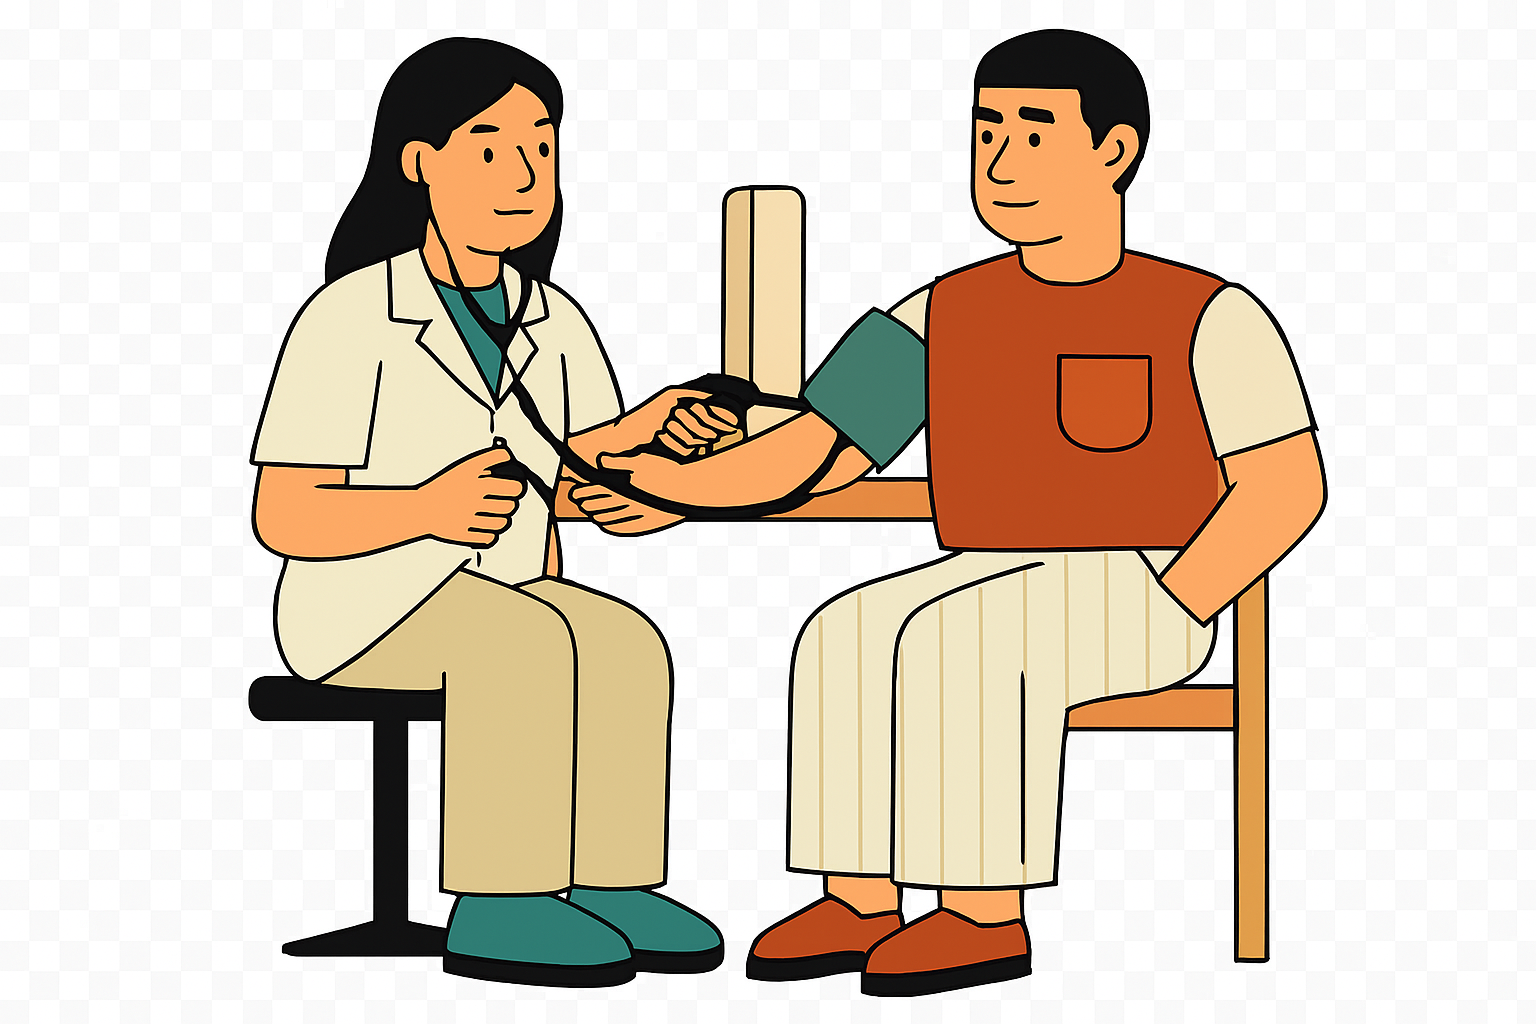
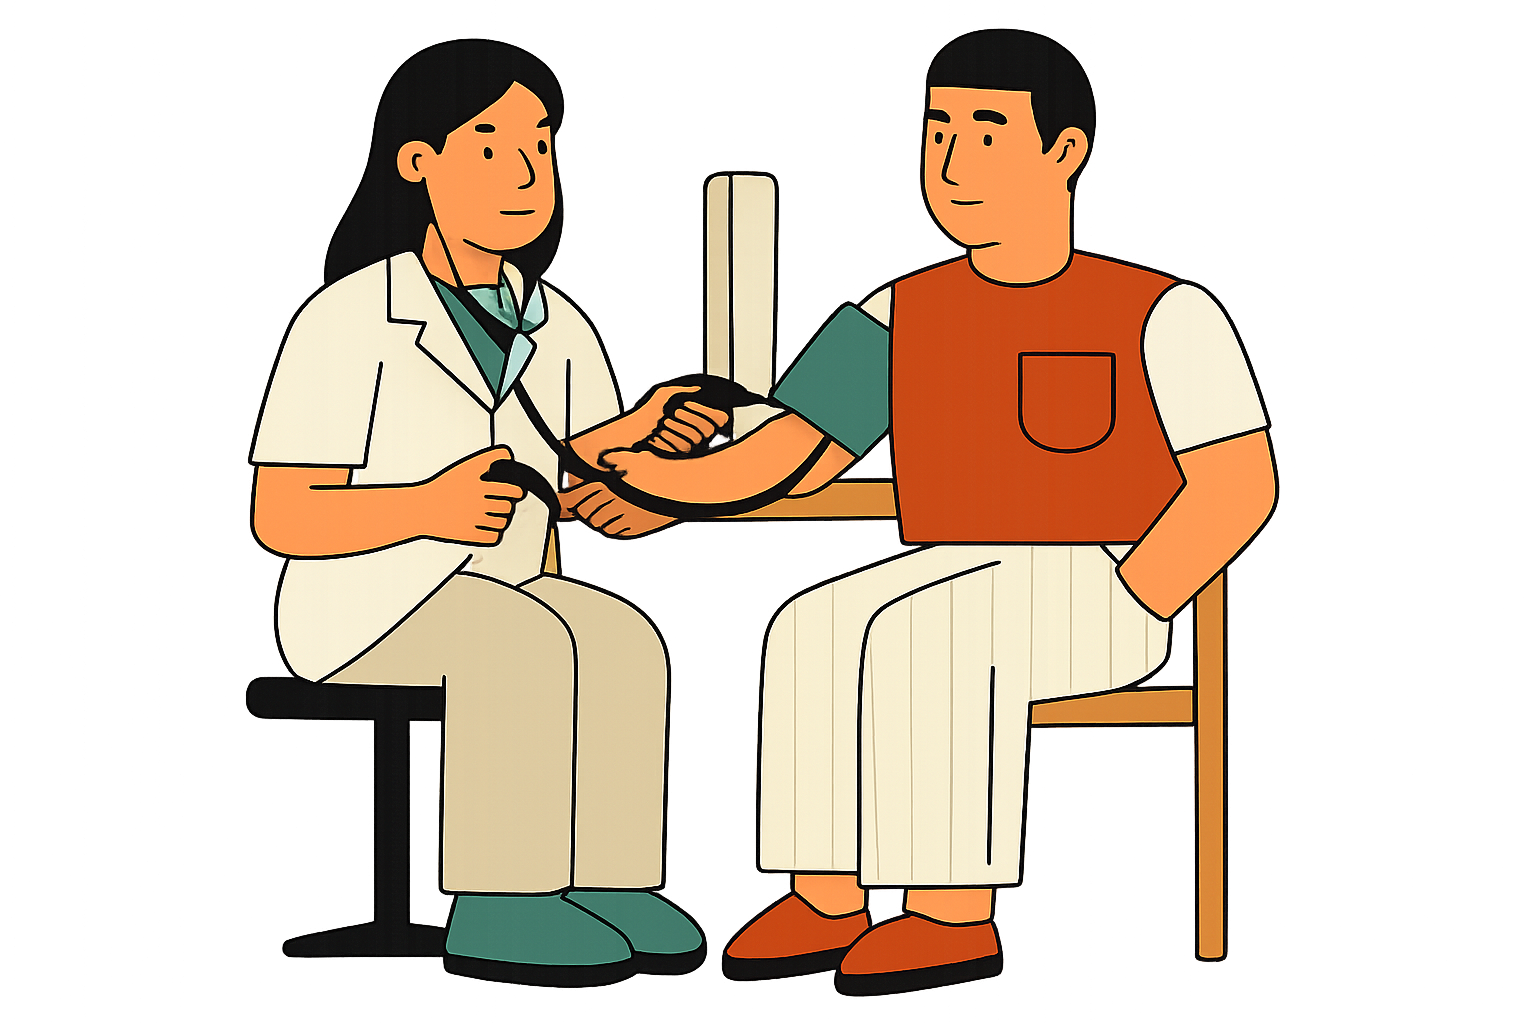
add blood pressure reading page

diff --git a/src/components/patient/BloodPressureReading.tsx b/src/components/patient/BloodPressureReading.tsx
@@ -1,14 +1,54 @@
+
 import { Box, Typography } from "@mui/material";
+import { useContext } from "react";
+import LanguageContext from "../../LanguageContext";
+import bloodPressureImg from "../../assets/images/illustrations/blood-pressure-test.png";
 
 const BloodPressureReading = () => {
+  const { language } = useContext(LanguageContext);
   return (
-    <Box sx={{ p: 4, minHeight: '100vh' }}>
+    <Box sx={{ p: 4, minHeight: '100vh', display: 'flex', flexDirection: 'column', alignItems: 'center' }}>
       <Typography variant="h4" sx={{ mb: 2, color: '#2F4F4F' }}>
-        Blood Pressure Reading
+        {language === 'pt' ? 'Leitura da Pressão Arterial' : 'Blood Pressure Reading'}
       </Typography>
-      <Typography variant="body1">
-        This is where the blood pressure reading form or data will go.
-      </Typography>
+      <img
+        src={bloodPressureImg}
+        alt="Blood Pressure Test"
+        style={{ maxWidth: 320, width: '100%', height: 'auto', marginBottom: 24 }}
+      />
+      <Box sx={{ display: 'flex', flexDirection: 'column', gap: 2, mt: 2, width: '100%', maxWidth: 320 }}>
+        <button
+          style={{
+            padding: '12px 0',
+            width: '100%',
+            background: '#BE550F',
+            color: '#fff',
+            border: 'none',
+            borderRadius: 6,
+            fontSize: '1.1rem',
+            fontWeight: 600,
+            cursor: 'pointer',
+            marginBottom: 8
+          }}
+        >
+          {language === 'pt' ? 'Inserir Leitura' : 'Input Reading'}
+        </button>
+        <button
+          style={{
+            padding: '12px 0',
+            width: '100%',
+            background: '#fff',
+            color: '#BE550F',
+            border: '2px solid #BE550F',
+            borderRadius: 6,
+            fontSize: '1.1rem',
+            fontWeight: 600,
+            cursor: 'pointer'
+          }}
+        >
+          {language === 'pt' ? 'Como Obter uma Leitura' : 'How to Get a Reading'}
+        </button>
+      </Box>
     </Box>
   );
 };
